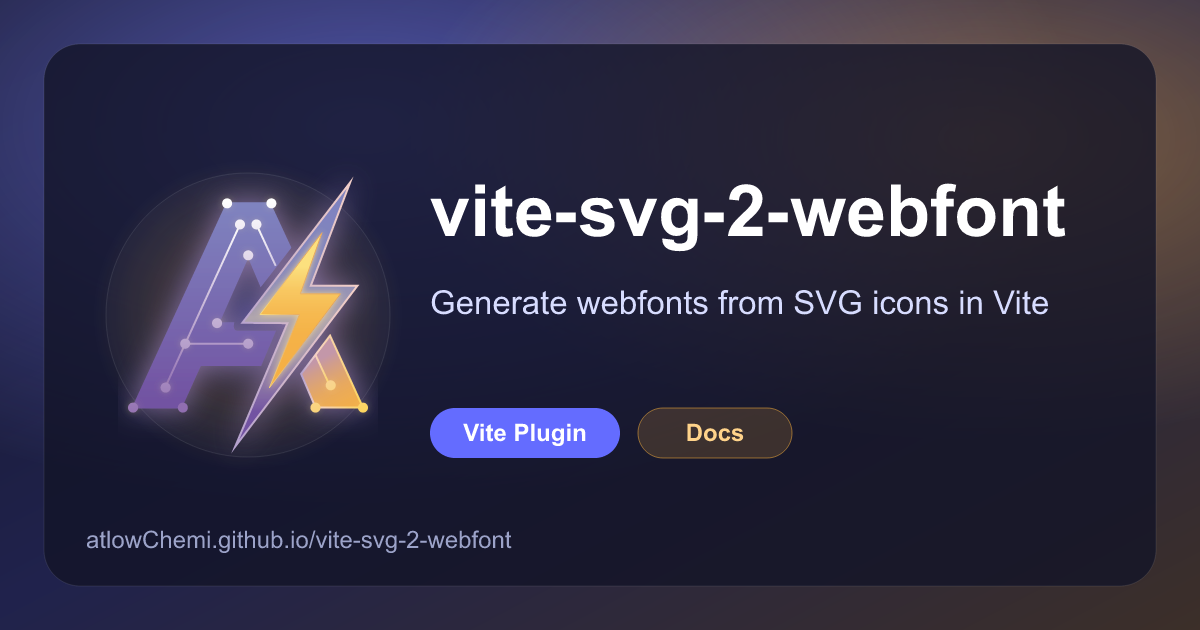
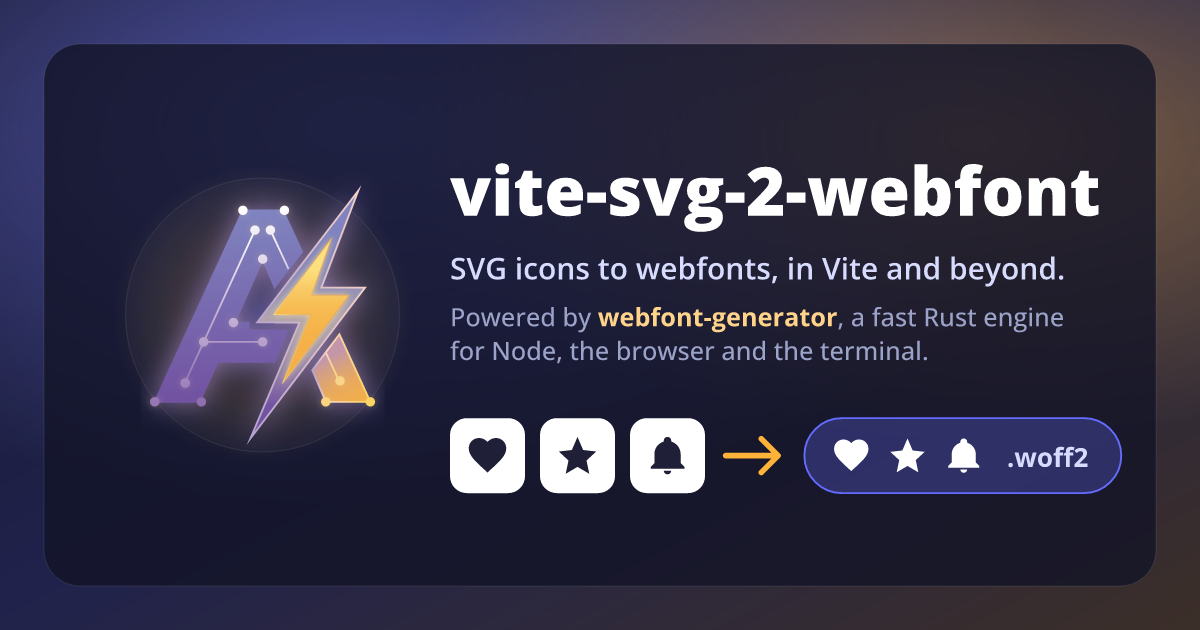
docs: render social cards with a bundled font and add a GitHub preview (#601)
The docs build regenerates social-card.png on CI, where resvg found none of
the SVG's fonts and fell back to a wider one, pushing the title past the
card. Render both cards with bundled Open Sans only, so CI and local renders
match.

Redesign the card to cover the whole project rather than only the Vite
plugin, naming webfont-generator as the engine, and add a 1280×640 GitHub
social preview rendered from the same layout.

diff --git a/packages/docs/scripts/generate-social-card.ts b/packages/docs/scripts/generate-social-card.ts
@@ -1,21 +1,35 @@
-import { resolve } from 'node:path';
+import { createRequire } from 'node:module';
+import { dirname, resolve } from 'node:path';
 import { readFile, writeFile } from 'node:fs/promises';
 import { Resvg } from '@resvg/resvg-js';
 
-const fileName = 'social-card';
+/**
+ * Social images rendered from the optimized SVGs in `public/`: the docs site's Open Graph card, and the repository's
+ * GitHub social preview (uploaded by hand in the repository settings; GitHub recommends 1280×640).
+ */
+const cards = [
+    { fileName: 'social-card', width: 1200 },
+    { fileName: 'github-social-preview', width: 1280 },
+];
 const rootDir = resolve(import.meta.dirname, '..', 'public');
-const inputPath = resolve(rootDir, `${fileName}.svg`);
-const outputPath = resolve(rootDir, `${fileName}.png`);
 
-const svg = await readFile(inputPath);
-const resvg = new Resvg(svg, {
-    fitTo: {
-        mode: 'width',
-        value: 1200,
-    },
-});
-const png = resvg.render().asPng();
+// Render with bundled Open Sans only: system fonts differ between machines, and CI's fallback is wide enough to push
+// the title past the card's edge.
+const openSansDir = dirname(createRequire(import.meta.url).resolve('@expo-google-fonts/open-sans/package.json'));
+const font = {
+    fontFiles: ['500Medium/OpenSans_500Medium', '600SemiBold/OpenSans_600SemiBold', '700Bold/OpenSans_700Bold', '800ExtraBold/OpenSans_800ExtraBold'].map(file =>
+        resolve(openSansDir, `${file}.ttf`),
+    ),
+    loadSystemFonts: false,
+    defaultFontFamily: 'Open Sans',
+};
 
-await writeFile(outputPath, png);
-
-console.log(`Generated ${outputPath}`);
+await Promise.all(
+    cards.map(async ({ fileName, width }) => {
+        const svg = await readFile(resolve(rootDir, `${fileName}.svg`));
+        const png = new Resvg(svg, { font, fitTo: { mode: 'width', value: width } }).render().asPng();
+        const outputPath = resolve(rootDir, `${fileName}.png`);
+        await writeFile(outputPath, png);
+        console.log(`Generated ${outputPath}`);
+    }),
+);
